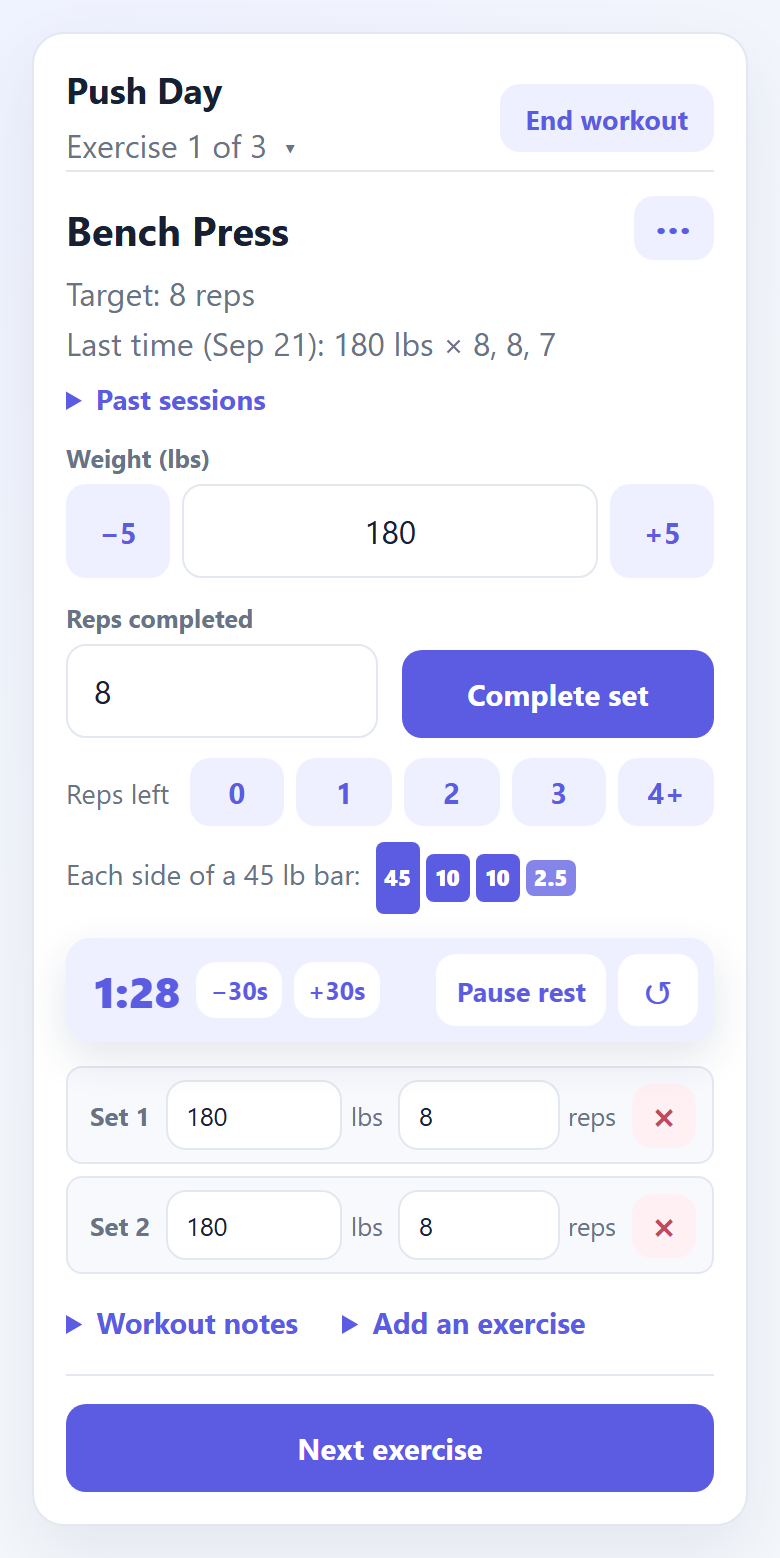
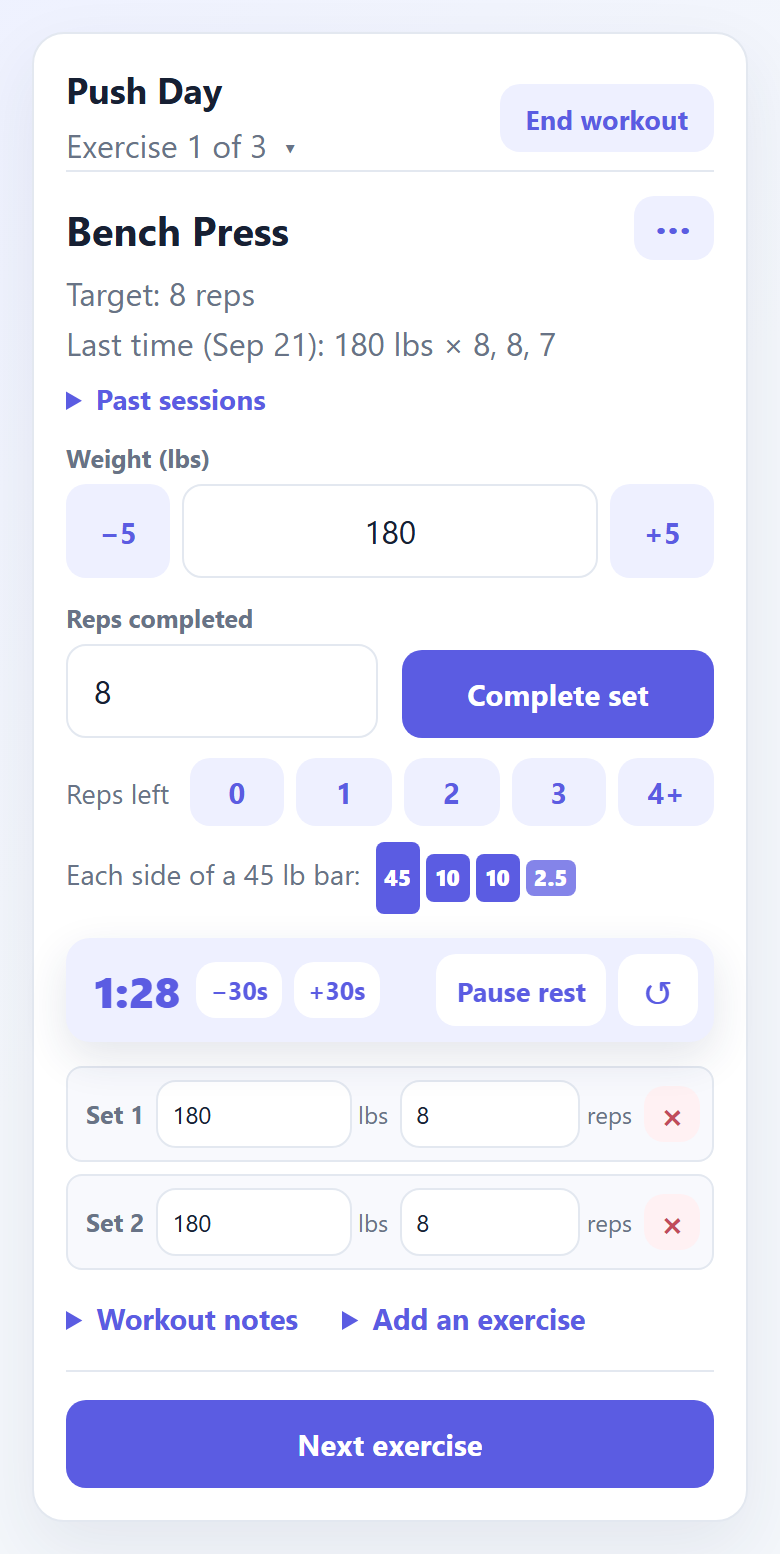
Give a logged set's weight and reps more room on a phone
CI's Linux fonts are wider than this machine's, which left the fields in
a one-line logged set at 66px, under the tests' 70px. Tighter gaps, a
smaller unit label and a smaller x give each field about 10px back.

diff --git a/frontend/styles.css b/frontend/styles.css
@@ -473,10 +473,12 @@ h2 { margin-bottom:14px; }
   .rest-actions { gap:6px; }
   .rest-actions button { padding:9px 10px; font-size:.85rem; white-space:nowrap; }
   /* A logged set on one line: its number, weight, reps and ×. */
-  .set-list li { grid-template-columns:auto minmax(0,1fr) minmax(0,1fr) auto; gap:8px; }
+  .set-list li { grid-template-columns:auto minmax(0,1fr) minmax(0,1fr) auto; gap:6px; padding:6px 6px 6px 9px; }
   .set-number, .set-list .remove { grid-row:auto; grid-column:auto; }
-  .set-number { font-size:.8rem; }
-  .set-field { gap:4px; font-size:.8rem; }
+  .set-number { font-size:.78rem; }
+  .set-field { gap:3px; font-size:.75rem; }
+  .set-edit { padding:8px 7px; }
+  .set-list .remove { width:28px; height:28px; font-size:1.05rem; }
   .footer-actions { flex-direction:row; }
   .footer-buttons { flex:1; }
 }
